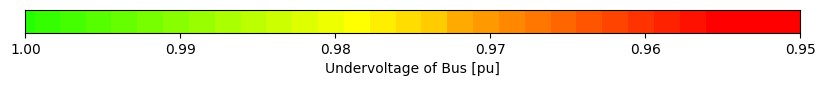
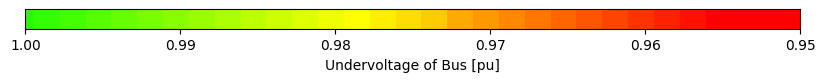
final layout

diff --git a/dash-visualization-tool.py b/dash-visualization-tool.py
@@ -46,7 +46,10 @@ green_to_blue = ['#00FF00','#00FF11','#00FF22','#00FF33','#00FF44','#00FF55','#0
 cut_off_v_pu_hardcoded_undervoltage = 0.95 # cut_off_v_pu is hardcoded; below(or above) the cutt of voltage all nodes will have the same color
 cut_off_v_pu_hardcoded_overvoltage = 1.05
 
+##############################################################
 Pandanet = netMV  # Change here to the network you want to use
+###############################################################
+
 pp.runpp(Pandanet) # run powerflow on the network
 
 generate_gradient_scale_line_loading(green_to_red) #auxilary function to generate an image containing a legend for the colors used to represent the power flow results
@@ -64,108 +67,120 @@ lines_to_deactivate = []
 
 ## Dash Application ##
 
-app = Dash(__name__,external_stylesheets=[dbc.themes.LUX]) # An dbc-stylesheet has to be used, otherwise the dbc-layout commands will not work
+app = Dash(__name__,external_stylesheets=[dbc.themes.BOOTSTRAP]) # An dbc-stylesheet has to be used, otherwise the dbc-layout commands will not work
 
 app.layout = dbc.Container([
-    # Container, Row and Col commands are used for the layout
+    # Container, Row and Col commands are used for structuring the layout
 
-        dbc.Row( dbc.Col (html.H3('Visualization of Power-Flow Calculation Results', className='text-center my-4 mp-4'))
-        ),
+        dbc.Row( dbc.Col (html.H3('Visualization of Power-Flow Calculation Results', className='text-center my-1 mp-1'))),
         
         dbc.Row([
             
-        dbc.Col([
-                cyto.Cytoscape(
-                    id='net map', # id are used to refer to components
-                    autolock = True, # locks the nodes in place; nodes cannot be moved by user when this is True
-                    # autounselectify = False,
-                    minZoom = 0.02,
-                    maxZoom = 100,
-                    layout={'name': 'preset'},
-                    style={'width': '100%', 'height': '500px'},
-                    stylesheet = generate_stylesheet(6,0.5,green_to_red,green_to_blue), # defines all the node and edge styles that can be used in the network; generated by auxilary function
-                    elements=generate_nodes(Pandanet,vlevel = False,colorgradient1=green_to_red,colorgradient2=green_to_blue,v_cuttoff_under=cut_off_v_pu_hardcoded_undervoltage,v_cuttoff_over=cut_off_v_pu_hardcoded_overvoltage) + generate_edges(Pandanet,Loading = False,colorgradient=green_to_red)
-                    ), # create all the nodes and edges on the map; also done by auxilary fucntion
+                dbc.Col([
+                        cyto.Cytoscape(
+                            id='net map', # id are used to refer to components
+                            autolock = True, # locks the nodes in place; nodes cannot be moved by user when this is True
+                            # autounselectify = False,
+                            minZoom = 0.02,
+                            maxZoom = 100,
+                            layout={'name': 'preset'},
+                            style={'width': '100%', 'height': '500px'},
+                            stylesheet = generate_stylesheet(6,0.5,green_to_red,green_to_blue), # defines all the node and edge styles that can be used in the network; generated by auxilary function
+                            elements=generate_nodes(Pandanet,vlevel = False,colorgradient1=green_to_red,colorgradient2=green_to_blue,v_cuttoff_under=cut_off_v_pu_hardcoded_undervoltage,v_cuttoff_over=cut_off_v_pu_hardcoded_overvoltage) + generate_edges(Pandanet,Loading = False,colorgradient=green_to_red)
+                            ), # create all the nodes and edges on the map; also done by auxilary fucntion
 
-                
-                ], 
-                className="border border-secondary",    
-                width = {'size':8, 'offset': 0, 'order': 1 }
-                ),
-
-                
-        dbc.Col([                               
                         
-                html.P(id='hover-info-node', children = ""), # children contains what will be displayed in the application, it is also the component that is changed in the callbacks
+                        ], 
+                        className="border border-secondary",    
+                        width = {'size':9, 'offset': 0, 'order': 1 }
+                        ),
+
                         
-                html.P(id='hover-info-line', children = ""),
+                dbc.Col([                               
+                                
+                        html.P(id='hover-info-node', children = ""), # children contains what will be displayed in the application, it is also the component that is changed in the callbacks
+                                
+                        html.P(id='hover-info-line', children = ""),
 
-                html.P(id='select-line', children = ""),
+                        html.P(id='select-line', children = ""),
 
-                html.Button(id="activate", children="Activate"), # children contains the text that is displayed on top of the buttons
-                html.Button(id="deactivate", children="Deactivate"), # Functionality of buttons is explained in their respective callbacks
-                html.Button(id="clear", children="Clear"),
+                        html.Button(id="activate", children="Activate"), # children contains the text that is displayed on top of the buttons
+                        html.Button(id="deactivate", children="Deactivate"), # Functionality of buttons is explained in their respective callbacks
+                        html.Button(id="clear", children="Clear"),
 
-                html.P('activate lines : '),
-                html.P(id='activate lines',children=""),
+                        html.P('activate lines : '),
+                        html.P(id='activate lines',children=""),
+                                
+
+                        html.P('deactivate lines : '),
+                        html.P(id='deactivate lines',children=""),
+
+
+                        html.P('Rerun Powerflow : '),
+                        html.Button(id="commit", children="Commit Changes"),
+                        html.P(id='running',children=""),
+
+                        html.P(id='radiality',children="Radial and Connected: " + str(is_radial(Pandanet))),
+
+
                         
 
-                html.P('deactivate lines : '),
-                html.P(id='deactivate lines',children=""),
-
-
-                html.P('Rerun Powerflow : '),
-                html.Button(id="commit", children="Commit Changes"),
-                html.P(id='running',children=""),
-
-                html.P(id='radiality',children="Radial and Connected: " + str(is_radial(Pandanet))),
-
-
-                
-
-                ]
-            
-            ,className="border border-secondary", width= {'size':4, 'offset': 0, 'order': 2 })
-        ]),
+                        ]
+                    
+                    ,className="border border-secondary", width= {'size':3, 'offset': 0, 'order': 2 })
+                ]),
         dbc.Row([
             
-        dbc.Col([
-                html.Img(src='assets/linegradient.png'), # display the legends for colors used to represent the power flow results
-                html.Img(src='assets/undervoltagegradient.png'),
-                html.Img(src='assets/overvoltagegradient.png'),
-                ],width= {'size':6, 'offset': 0, 'order': 1 }
-                ),
-        dbc.Col([html.P('Display loading percentage of lines:'),
-                        
-                dcc.RadioItems( # Radioitems: User can choose between 2 values/options
-                            id = 'displayloading',
-                            options = ['Yes', 'No'],
-                            value = 'No'
-                        ),             
-                        
-                html.P('Display voltage level of busses:',className='mp-0'),
-                        
-                dcc.RadioItems(
-                            id = 'buslevel',
-                            options = ['Yes', 'No'],
-                            value = 'No',
-                            className='mp-2'
+                dbc.Col([
+                        html.Img(src='assets/linegradient.png'), # display the legends for colors used to represent the power flow results
+                        html.Img(src='assets/undervoltagegradient.png'),
+                        html.Img(src='assets/overvoltagegradient.png'),
+                        ],className="border border-secondary", width= {'size':7, 'offset': 0, 'order': 1 }
                         ),
-                html.P('Node size: '),
-                dcc.Slider(1, 50, # sliders to alter the size of the nodes and the lines
-                            step =2,
-                            value=3,
-                            id = 'bus-size-slider',
-                        ),
+                
+                dbc.Col([
+                        dbc.Row([
+                            
+                            dbc.Col([html.P('Display loading percentage of lines:'),]),
+                            
+                            dbc.Col([dcc.RadioItems( # Radioitems: User can choose between 2 values/options
+                                        id = 'displayloading',
+                                        options = ['Yes', 'No'],
+                                        value = 'No'
+                                        ),
+                                ])
+                            ]),
+                        
+                        dbc.Row([
+                            dbc.Col([html.P('Display voltage level of busses:',className='mp-0'),]),
+                            
+                            dbc.Col([dcc.RadioItems(
+                                    id = 'buslevel',
+                                    options = ['Yes', 'No'],
+                                    value = 'No',
+                                    className='mp-2'),
+                                ])
+                            ]),
+                        
+                        dbc.Row([
+                            dbc.Col([html.P('Node size: '),
+                                    
+                                    dcc.Slider(1, 50, # sliders to alter the size of the nodes and the lines
+                                            step =2,
+                                            value=3,
+                                            id = 'bus-size-slider',),
 
-                html.P('line width: '),                
-                dcc.Slider(1,10,
-                            step =1,
-                            value=1,
-                            id = 'line-size-slider',
-                        ),
-                ], className="border border-secondary", width= {'size':4, 'offset': 2, 'order': 2 }),
-        ])
+                                    html.P('line width: '),                
+                                    
+                                    dcc.Slider(1,10,
+                                            step =1,
+                                            value=1,
+                                            id = 'line-size-slider',),
+                                ])
+                            ]),
+                    
+                        ], className="border border-secondary", width= {'size':5, 'offset': 0, 'order': 2 }),
+                ]),
 
     ], fluid=True)
 
@@ -314,4 +329,4 @@ def add_to_deactivate_lines(n_clicks1,line_data,n_clicks2):
                     lines_to_deactivate.append(line_index)   
     return str(lines_to_deactivate)
 
-app.run_server(debug=True)
+app.run_server(debug=False) # Turn on debug for error messages on the webpage

diff --git a/generate_stylesheet.py b/generate_stylesheet.py
@@ -112,7 +112,7 @@ def generate_stylesheet(bus_size,line_size,colorgradient1,colorgradient2):
 def generate_gradient_scale_line_loading(colorgradient): 
     # plots a graph of vertical lines. 
     # The result is a colorgradient with the correct scale on the x-axis
-    fig, ax = matplotlib.pyplot.subplots(figsize=(10,0.3))
+    fig, ax = matplotlib.pyplot.subplots(figsize=(10,0.25))
     ax.set_xlim(0, 100)
     ax.set_yticks([])
     matplotlib.pyplot.xlabel('loading percentage of line')
@@ -131,7 +131,7 @@ def generate_gradient_scale_vlevel_undervoltage(colorgradient,cut_off_v_pu):
     x_start = 1
     x_end = cut_off_v_pu # cut_off_v_pu in hardcoded in the main file, but can easily be changed there.
     step_size = (x_start - x_end)/len(colorgradient)
-    fig, ax = matplotlib.pyplot.subplots(figsize=(10,0.3))
+    fig, ax = matplotlib.pyplot.subplots(figsize=(10,0.25))
     ax.set_xlim(x_start, x_end)
     ax.set_yticks([])
     matplotlib.pyplot.xlabel('Undervoltage of Bus [pu]')
@@ -149,7 +149,7 @@ def generate_gradient_scale_vlevel_overvoltage(colorgradient,cut_off_v_pu):
     x_start = 1
     x_end = cut_off_v_pu # cut_off_v_pu in hardcoded in the main file, but can easily be changed there.
     step_size = (x_end - x_start)/len(colorgradient)
-    fig, ax = matplotlib.pyplot.subplots(figsize=(10,0.3))
+    fig, ax = matplotlib.pyplot.subplots(figsize=(10,0.25))
     ax.set_xlim(x_start, x_end)
     ax.set_yticks([])
     matplotlib.pyplot.xlabel('Overvoltage of Bus [pu]')
